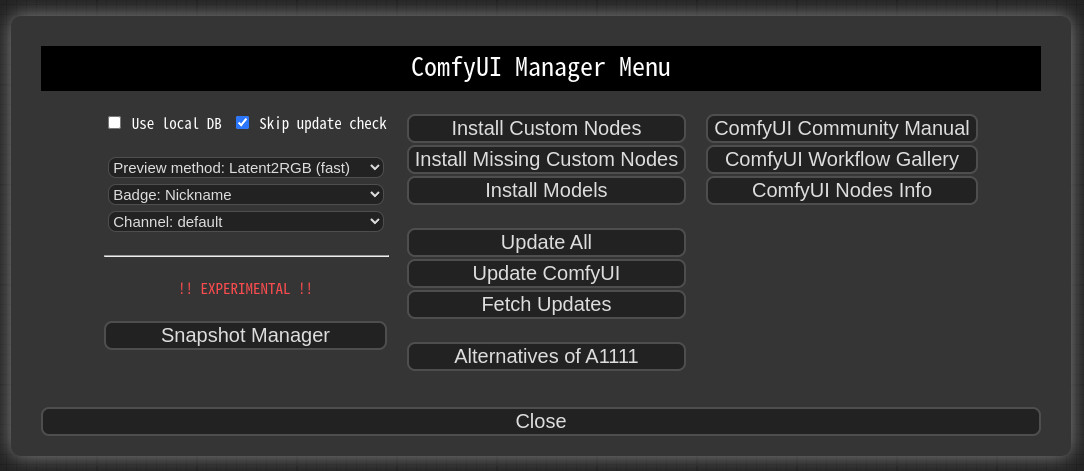
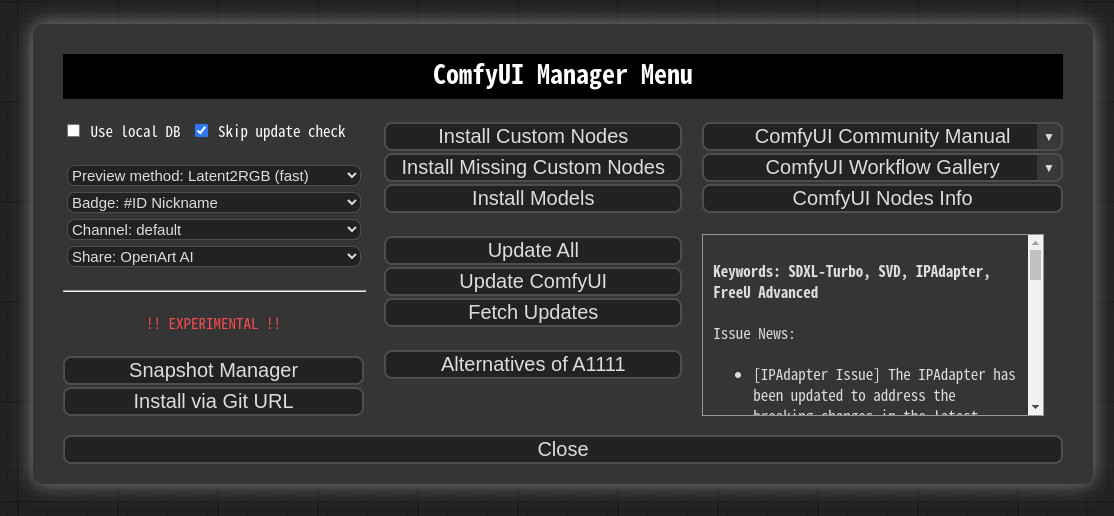
update README

diff --git a/README.md b/README.md
@@ -5,7 +5,7 @@
 ![menu](misc/menu.jpg)
 
 ## NOTICE
-* 🏆 Join us for the [ComfyUI Workflow Contest](https://contest.openart.ai/), hosted by OpenArt AI (11.27.2023 - 12.15.2023). Our esteemed judge panel includes Scott E. Detweiler, Olivio Sarikas, MERJIC麦橘, among others. We're also thrilled to have the authors of ComfyUI Manager and AnimateDiff as our special guests!  
+* 🏆 Join us for the [ComfyUI Workflow Contest](https://contest.openart.ai/), hosted by OpenArt AI (11.27.2023 - 12.15.2023). Our esteemed judge panel includes Scott E. Detweiler, Olivio Sarikas, MERJIC麦橘, among others. We're also thrilled to have the authors of ComfyUI Manager and AnimateDiff as our special guests!
 * If you wish to hide the "Share" button, click "Manager" and choose "Share: None" option.
 * You can see whole nodes info on [ComfyUI Nodes Info](https://ltdrdata.github.io/) page.
 * Versions prior to V0.22.2 will no longer detect missing nodes unless using a local database. Please update ComfyUI-Manager to the latest version.
@@ -76,31 +76,50 @@ This repository provides Colab notebooks that allow you to install and use Comfy
 
 1. Click "Manager" button on main menu
 
-![mainmenu](misc/main.png)
+    ![mainmenu](misc/main.jpg)
 
 
 2. If you click on 'Install Custom Nodes' or 'Install Models', an installer dialog will open.
 
-![menu](misc/menu.jpg)
+    ![menu](misc/menu.jpg)
 
-* When the 'Use local DB' feature is enabled, the application will utilize the data stored locally on your device, rather than retrieving node/model information over the internet
+    * When the 'Use local DB' feature is enabled, the application will utilize the data stored locally on your device, rather than retrieving node/model information over the internet
 
-* The ```Fetch Updates``` menu retrieves update data for custom nodes locally. Actual updates are applied by clicking the ```Update``` button in the ```Install Custom Nodes``` menu.
+    * The ```Fetch Updates``` menu retrieves update data for custom nodes locally. Actual updates are applied by clicking the ```Update``` button in the ```Install Custom Nodes``` menu.
 
 3. Click 'Install' or 'Try Install' button.
 
-![node-install-dialog](misc/custom-nodes.png)
+    ![node-install-dialog](misc/custom-nodes.jpg)
 
-![model-install-dialog](misc/models.png)
+    ![model-install-dialog](misc/models.png)
 
-* Installed: This item is already installed.
-* Install: Clicking this button will install the item.
-* Try Install: This is a custom node of which installation information cannot be confirmed. Click the button to try installing it.
+    * Installed: This item is already installed.
+    * Install: Clicking this button will install the item.
+    * Try Install: This is a custom node of which installation information cannot be confirmed. Click the button to try installing it.
 
-4. If you set the `Badge:` item in the menu as `Badge: Nickname` or `Badge: #ID Nickname`, the information badge will be displayed on the node.
-* `Badge: Nickname` displays the nickname of custom nodes, while `Badge: ID Nickname` also includes the internal ID of the node.
+    * If a red background `Channel` indicator appears at the top, it means it is not the default channel. Since the amount of information held is different from the default channel, many custom nodes may not appear in this channel state.
+      * Channel settings have a broad impact, affecting not only the node list but also all functions like "Update all."
+    * Conflicted Nodes with a yellow background show a list of nodes conflicting with other extensions in the respective extension. This issue needs to be addressed by the developer, and users should be aware that due to these conflicts, some nodes may not function correctly and may need to be installed accordingly.
 
-![model-install-dialog](misc/nickname.jpg)
+4. If you set the `Badge:` item in the menu as `Badge: Nickname`, `Badge: Nickname (hide built-in)`, `Badge: #ID Nickname`, `Badge: #ID Nickname (hide built-in)` the information badge will be displayed on the node.
+    * When selecting (hide built-in), it hides the 🦊 icon, which signifies built-in nodes.
+      * Nodes without any indication on the badge are custom nodes that Manager cannot recognize.
+    * `Badge: Nickname` displays the nickname of custom nodes, while `Badge: #ID Nickname` also includes the internal ID of the node.
+
+    ![model-install-dialog](misc/nickname.jpg)
+
+
+5. Share
+  ![menu](misc/main.jpg) ![share](misc/share.jpg) 
+
+  * You can share the workflow by clicking the Share button at the bottom of the main menu or selecting Share Output from the Context Menu of the Image node.
+  * Currently, it supports sharing via [https://comfyworkflows.com/](https://comfyworkflows.com/) and [https://openart.ai](https://openart.ai/workflows/dev), as well as through the Matrix channel.
+
+  ![menu](misc/share-setting.jpg)
+  
+  * Through the Share settings in the Manager menu, you can configure the behavior of the Share button in the Main menu or Share Ouput button on Context Menu.
+    * `None`: hide from Main menu
+    * `All`: Show a dialog where the user can select a title for sharing.
 
 
 ## Snapshot-Manager
@@ -111,7 +130,7 @@ This repository provides Colab notebooks that allow you to install and use Comfy
   * However, for custom nodes not managed by Git, snapshot support is incomplete.
 * When you press `Restore`, it will take effect on the next ComfyUI startup.
 
-  
+
 ![model-install-dialog](misc/snapshot.jpg)
 
 ## How to register your custom node into ComfyUI-Manager
